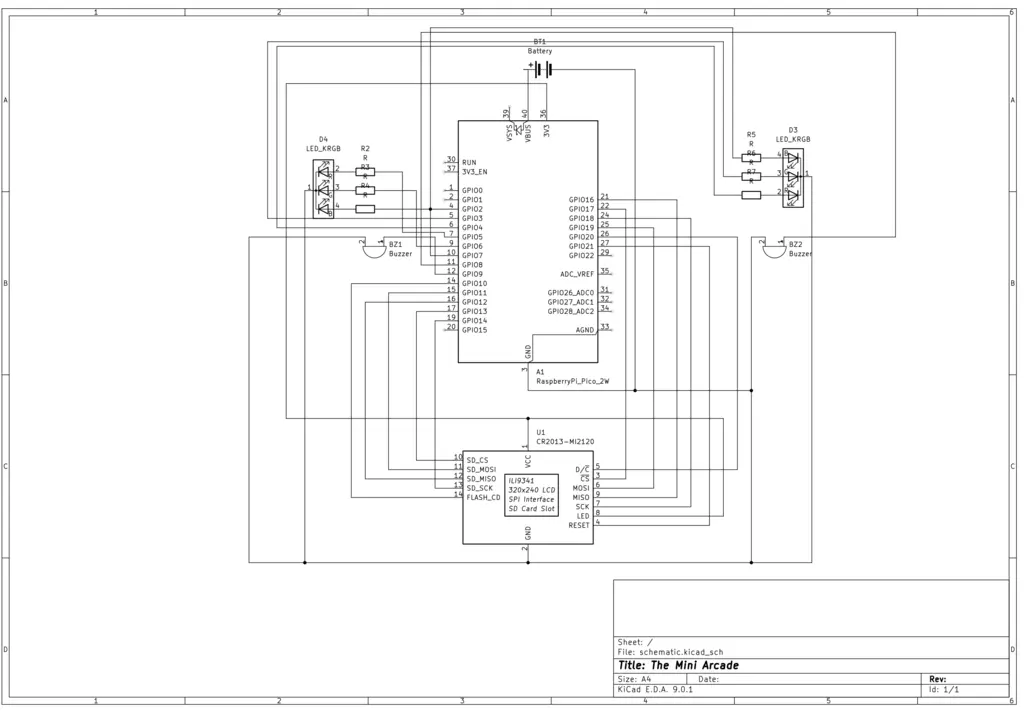
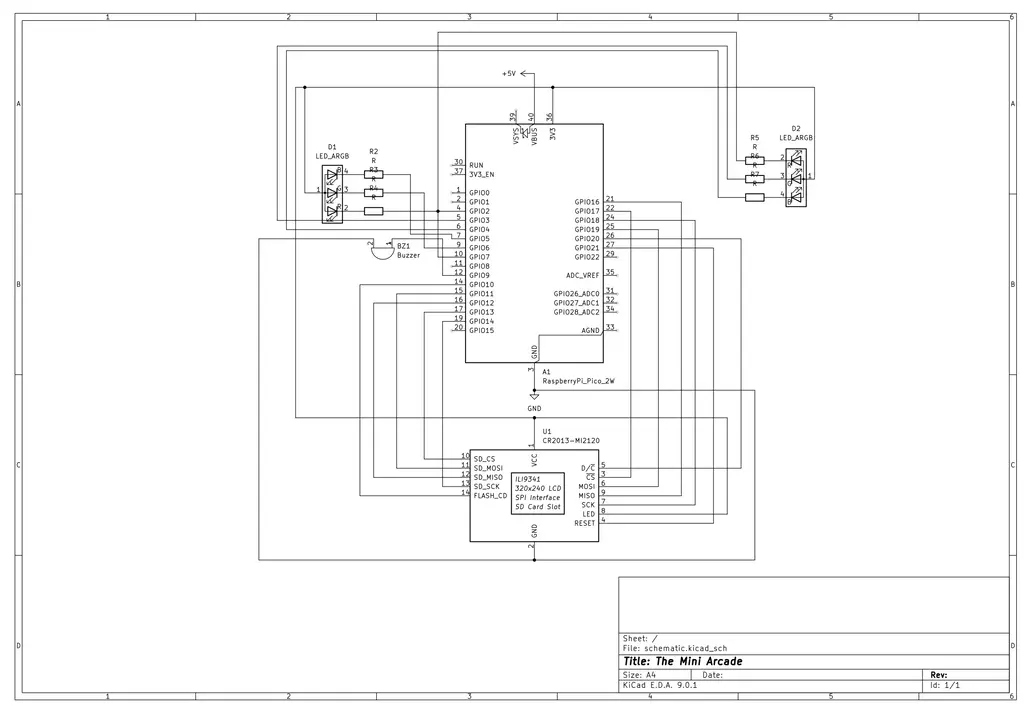
Update schematic and log

diff --git a/website/versioned_docs/version-acs_cc/project/2025/iulian.alexa/index.md b/website/versioned_docs/version-acs_cc/project/2025/iulian.alexa/index.md
@@ -24,7 +24,7 @@ I also thought it would be interesting to try and connect a USB keyboard to a mi
 
 - The Raspberry Pi Pico 2W acts as the central processing unit, running the software.
 - The display is driven by the Pico 2W to provide the visual interface for all menus, games, and feedback.
-- The MicroSD module integrated in the TFT display module allows for writing and reading leaderboard scores.
+- The SD module integrated in the TFT display module allows for writing and reading leaderboard scores.
 - The buzzer, connected to a GPIO pin on the Pico 2W, provides simple audio cues.
 - The USB hub allows the Pico 2W to receive input from the two keypads.
 - LEDs are used for additional visual feedback.
@@ -45,22 +45,35 @@ I also thought it would be interesting to try and connect a USB keyboard to a mi
 
 ### Week 5 - 11 May
 
+- ordered more hardware components
+- wrote the HID driver for the cotton\_usb\_host crate
+- tested the SD card reader, display, LEDs and buzzer
+
 ### Week 12 - 18 May
+
+- ordered the numeric keypads and the USB hub
+- created the channel to pass keystrokes from the usb_task to the main task
+- started working on minigames
+- updated the KiCad schematic (couldn't find common cathode LEDs; updated to common anode)
+
+My plan for the next week is to finish the minigames, and also create a 3D printed enclosure for the device to improve the overall look.
 
 ### Week 19 - 25 May
 
 ## Hardware
 
 - Raspberry Pi Pico 2W - The microcontroller
-- 2.2'' LCD TFT SPI 320x240 ILI9341 display - Display and Micro SD module
+- 2.2'' LCD TFT SPI 320x240 ILI9341 display - Display and SD module
 - 2x A4Tech NumericPad Fstyler FK13 USB Black - User Input
 - LOGILINK Hub USB 2.0 4 ports - Join Keyboards to allow connecting to MCU USB
 - Active Buzzer - Audio feedback
 - LEDs - Additional visual feedback
 
+![hardware](./hardware.webp)
+
 ### Schematics
 
-![block](./kicad.webp)
+![schematic](./kicad.webp)
 
 ### Bill of Materials
 
@@ -75,10 +88,10 @@ I also thought it would be interesting to try and connect a USB keyboard to a mi
 | Female USB-A to Male Micro USB Adapter | USB Hub input | [5 RON](https://www.optimusdigital.ro/ro/raspberry-pi-zero/3867-adaptor-usb-mama-la-micro-usb-tata.html) |
 | Jumper Wires | Connecting Components | [5 RON](https://www.optimusdigital.ro/ro/fire-fire-mufate/884-set-fire-tata-tata-40p-10-cm.html) |
 | 3xR6 Battery Holder | Portable Power Source | [4 RON](https://www.optimusdigital.ro/ro/suporturi-de-baterii/1090-suport-baterii-3-x-r6.html) |
-| 2x Active Buzzer | Audio Feedback | [2x 2 RON](https://www.optimusdigital.ro/ro/audio-buzzere/633-buzzer-activ-de-5-v.html) |
+| 1x Active Buzzer | Audio Feedback | [2 RON](https://www.optimusdigital.ro/ro/audio-buzzere/633-buzzer-activ-de-5-v.html) |
 | Resistors | Voltage regulation and signal protection for components | 3 RON |
 | LEDs | Visual Feedback | 3 RON |
-| **Total** | | 273 RON |
+| **Total** | | 271 RON |
 
 ## Software
 
@@ -90,7 +103,7 @@ I also thought it would be interesting to try and connect a USB keyboard to a mi
 | [cotton-usb-host](https://github.com/pdh11/cotton/tree/main) | USB Host Stack | Enable the Keyboards |
 | [rp235x-pac](https://github.com/rp-rs/rp235x-pac) | PAC for RP2350 | Used by cotton-usb-host |
 | [defmt](https://github.com/knurling-rs/defmt) | Deferred formatting | Logging during testing |
-
+| [embedded-sdmmc](https://github.com/rust-embedded-community/embedded-sdmmc-rs) | SD Card | Log scoreboard on the SD Card |
 ## Links
 
 1. [PM Rust Lab](https://pmrust.pages.upb.ro/docs/acs_cc/category/lab)
@@ -98,3 +111,4 @@ I also thought it would be interesting to try and connect a USB keyboard to a mi
 3. [TinyUSB](https://docs.tinyusb.org/en/latest/reference/getting_started.html)
 4. [cotton_usb_host](https://docs.rs/cotton-usb-host/latest/cotton_usb_host/)
 5. [RP2350 Datasheet](https://datasheets.raspberrypi.com/rp2350/rp2350-datasheet.pdf)
+6. [USB Human Interface Devices](https://wiki.osdev.org/USB_Human_Interface_Devices)
